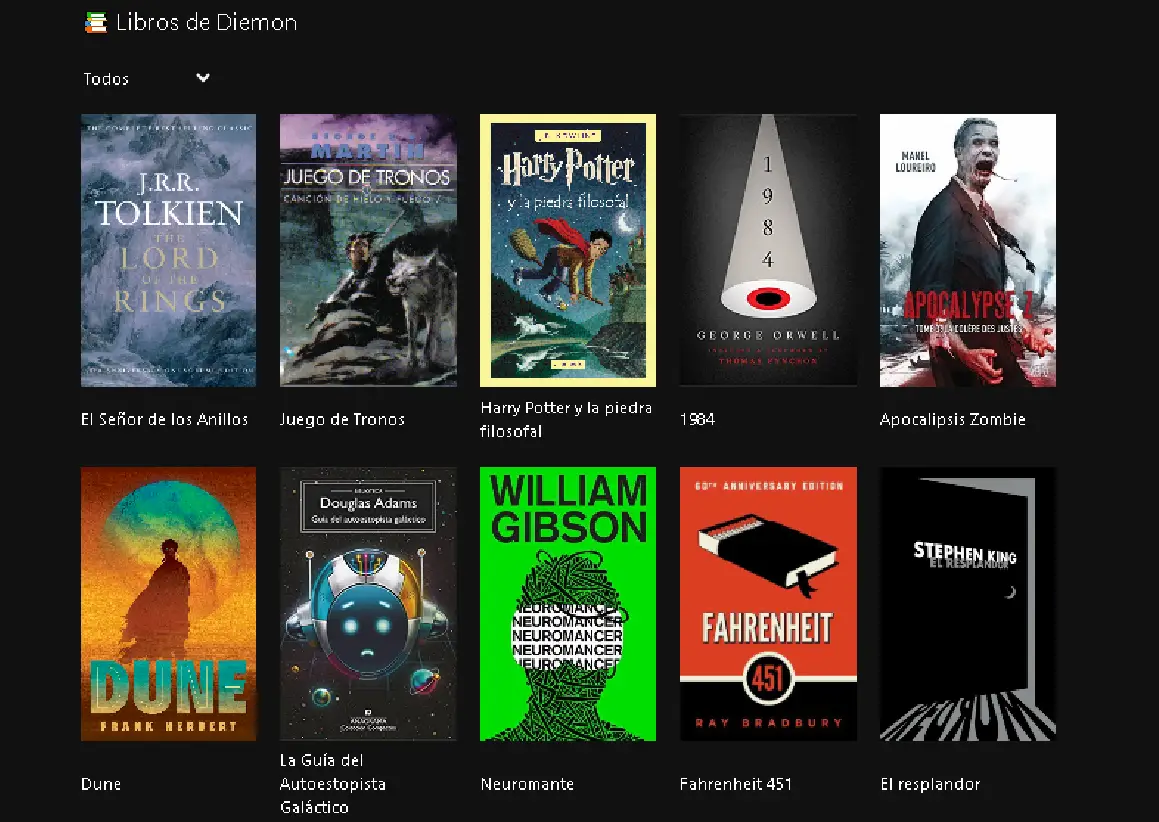
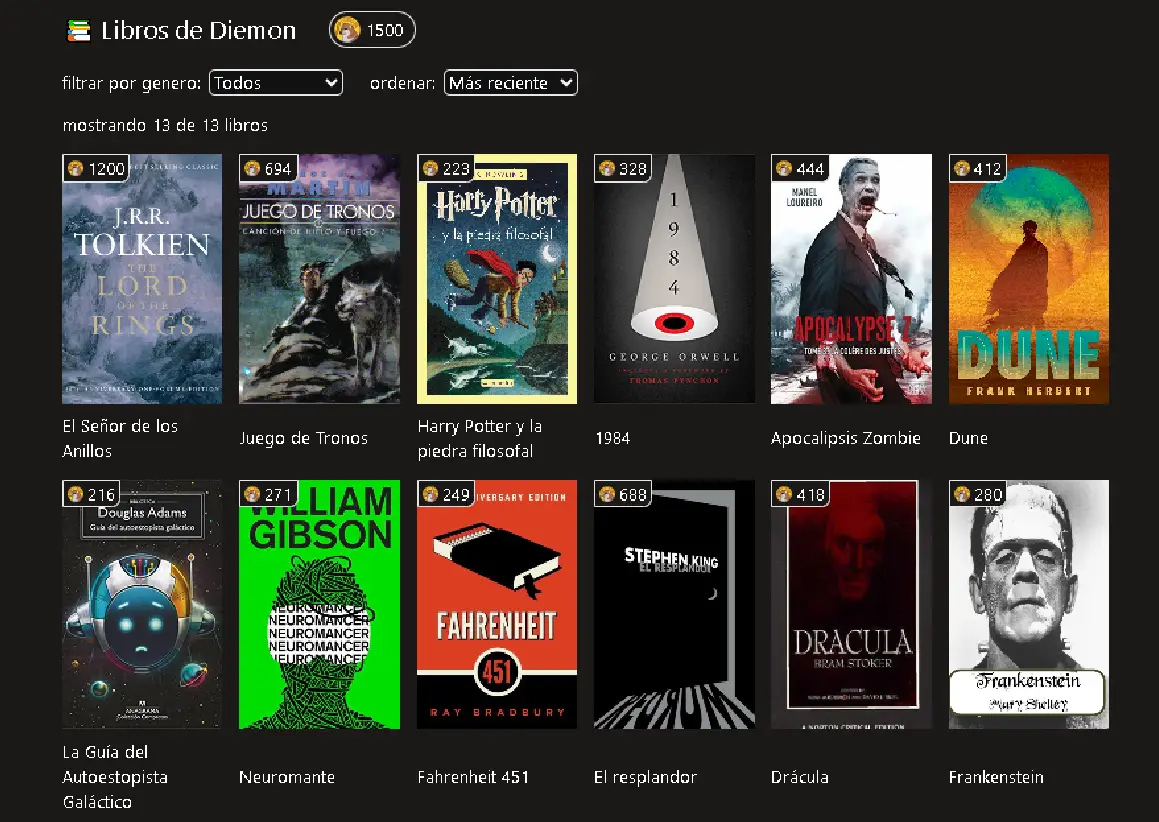
25.0122.1107

diff --git a/app/shared/data.ts b/app/shared/data.ts
@@ -2,36 +2,28 @@ import type { Project } from "./types";
 
 export const projects: Project[] = [
   {
-    title: "TM10YMhp - Links",
-    desc: "Este clon de linktree obtiene los enlaces desde un google sheet y se actualiza a demanda usando NextJS",
-    img: "/projects/next2.webp",
-    link: "https://tm10ymhp-links.vercel.app/",
-    github: "https://github.com/TM10YMhp/tm10ymhp-links",
-    tags: ["React", "NextJS", "TailwindCSS", "CSS", "Google Sheets"],
-  },
-  {
-    title: "Markdown Editor",
-    desc: "Un editor de markdown para crear documentos de forma rápida y sencilla. Esta descripcion lo hizo supermaven por cierto.",
-    img: "/projects/md_editor.webp",
-    link: "https://markdown-editor-311416.netlify.app/",
-    github: "https://github.com/TM10YMhp/markdown-editor",
-    tags: ["React", "CodeMirror"],
+    title: "Libros de Diemon",
+    desc: "En esta pagina puedes ver la informacion de cada libro y canjear los libros por monedas, ademas de filtrar y ordenar.",
+    img: "/projects/diemon.webp",
+    link: "https://librosdiemon.netlify.app/",
+    github: "https://github.com/TM10YMhp/libros_diemon",
+    tags: ["React", "NextJS", "SSR", "API"],
   },
   {
     title: "WA - Chat en Tiempo Real",
-    desc: "Mensajes en tiempo real de la forma mas simple que se me hizo posible, gracias a typescript y turborepo.",
+    desc: "Mensajes en tiempo real, hecho con typescript y turborepo.",
     img: "/projects/wa.webp",
     link: "https://wa-client.onrender.com/",
     github: "https://github.com/TM10YMhp/wa_monorepo",
     tags: ["TypeScript", "Workspaces", "Turborepo", "TailwindCSS", "SocketIO"],
   },
   {
-    title: "CompressWebp",
-    desc: "El script mas simple y estable que tengo hasta ahora. sirve para optimizar imagenes, es muy facil de integrar y muy conveniente por cierto.",
-    img: "/projects/compress.webp",
-    // link: "",
-    // github: "",
-    tags: ["Node", "CLI", "Sharp"],
+    title: "Markdown Editor",
+    desc: "Un editor de markdown para crear documentos de forma rápida y sencilla.",
+    img: "/projects/md_editor.webp",
+    link: "https://markdown-editor-311416.netlify.app/",
+    github: "https://github.com/TM10YMhp/markdown-editor",
+    tags: ["React", "CodeMirror"],
   },
   {
     title: "ff_components",
@@ -42,6 +34,14 @@ export const projects: Project[] = [
     tags: ["React", "NextJS", "TailwindCSS"],
   },
   {
+    title: "TM10YMhp - Links",
+    desc: "Este clon de linktree obtiene los enlaces desde un google sheet y se actualiza a demanda usando NextJS",
+    img: "/projects/next2.webp",
+    link: "https://tm10ymhp-links.vercel.app/",
+    github: "https://github.com/TM10YMhp/tm10ymhp-links",
+    tags: ["React", "NextJS", "TailwindCSS", "CSS", "Google Sheets"],
+  },
+  {
     title: "Pagina Web Responsiva",
     desc: "Pagina adaptada para todos los dispositivos, tambien agregue optimizacion de imagenes.",
     img: "/projects/responsive2.webp",
@@ -50,12 +50,12 @@ export const projects: Project[] = [
     tags: ["HTML", "CSS", "Javascript", "Wordpress", "Vue", "Alpine"],
   },
   {
-    title: "Libros de Diemon",
-    desc: 'Muestra los libros de diemon que tiene en el "Google Drive", o al menos eso quisiera... aun en progreso.',
-    img: "/projects/diemon.webp",
-    link: "https://librosdiemon.netlify.app/",
-    github: "https://github.com/TM10YMhp/libros_diemon",
-    tags: ["React", "NextJS", "SSR", "API"],
+    title: "CompressWebp",
+    desc: "El script mas simple y estable que tengo hasta ahora. sirve para optimizar imagenes, es muy facil de integrar y muy conveniente por cierto.",
+    img: "/projects/compress.webp",
+    // link: "",
+    // github: "",
+    tags: ["Node", "CLI", "Sharp"],
   },
   {
     title: "SereneNvim",
